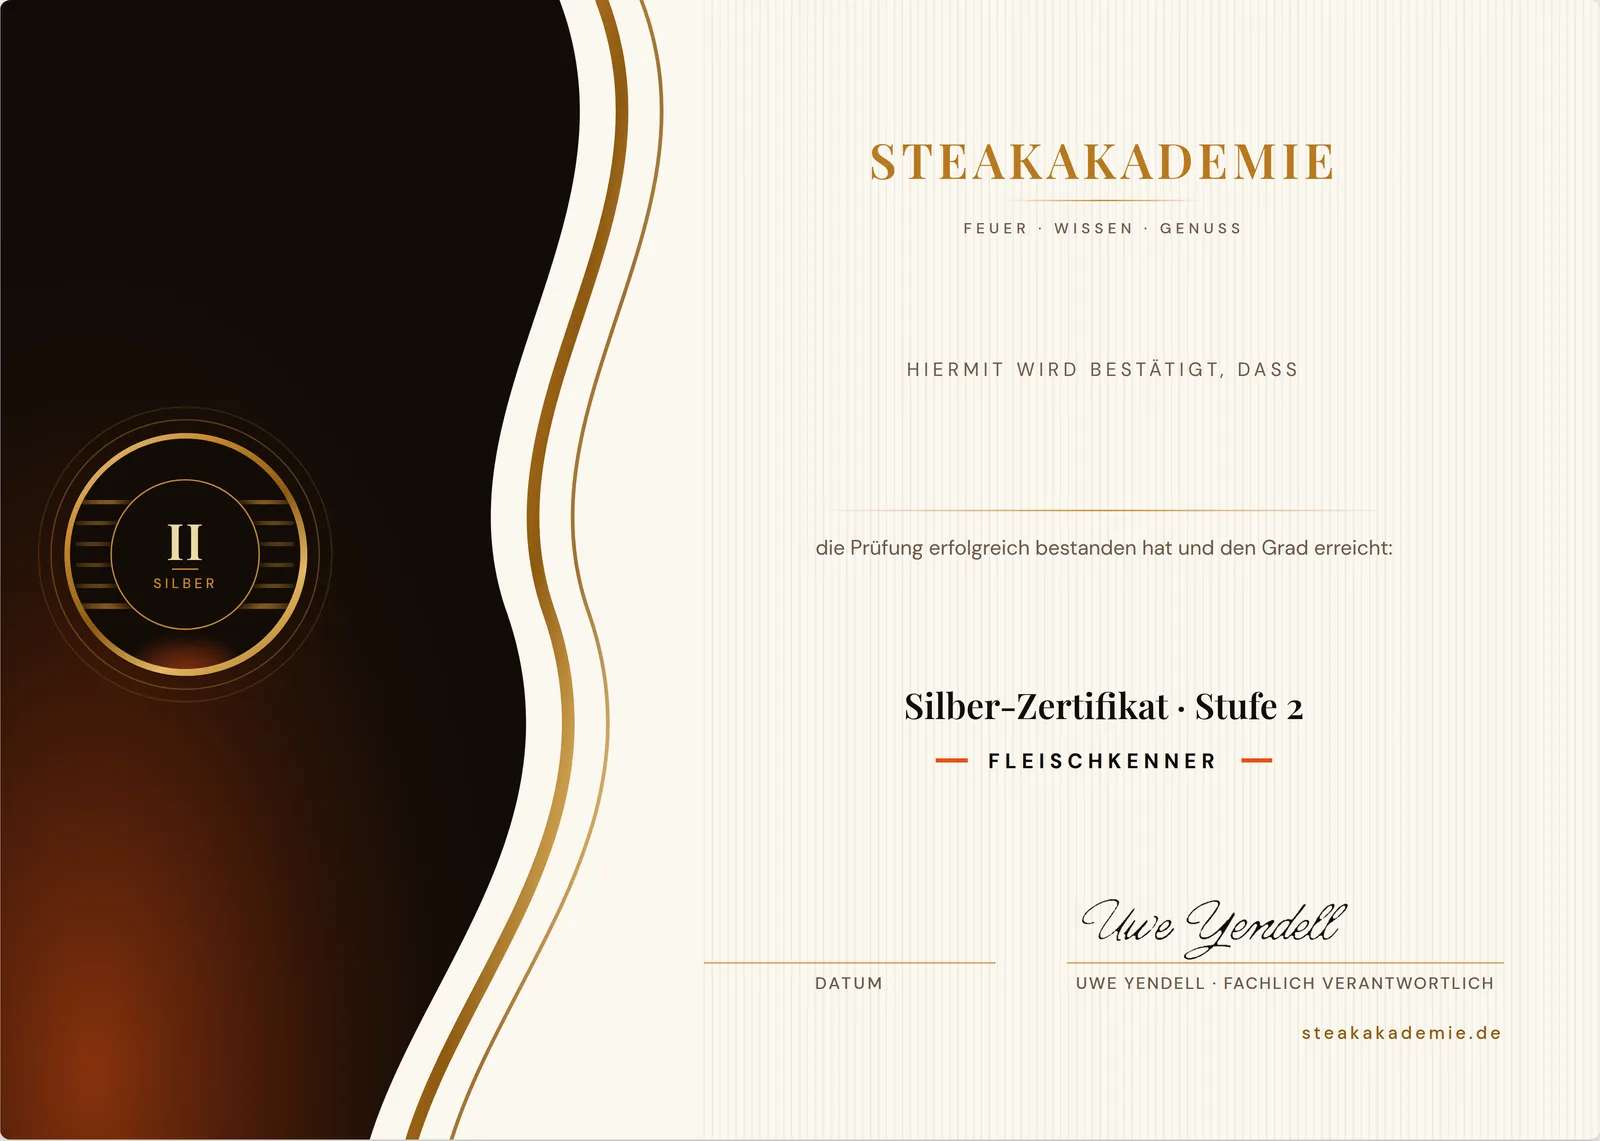
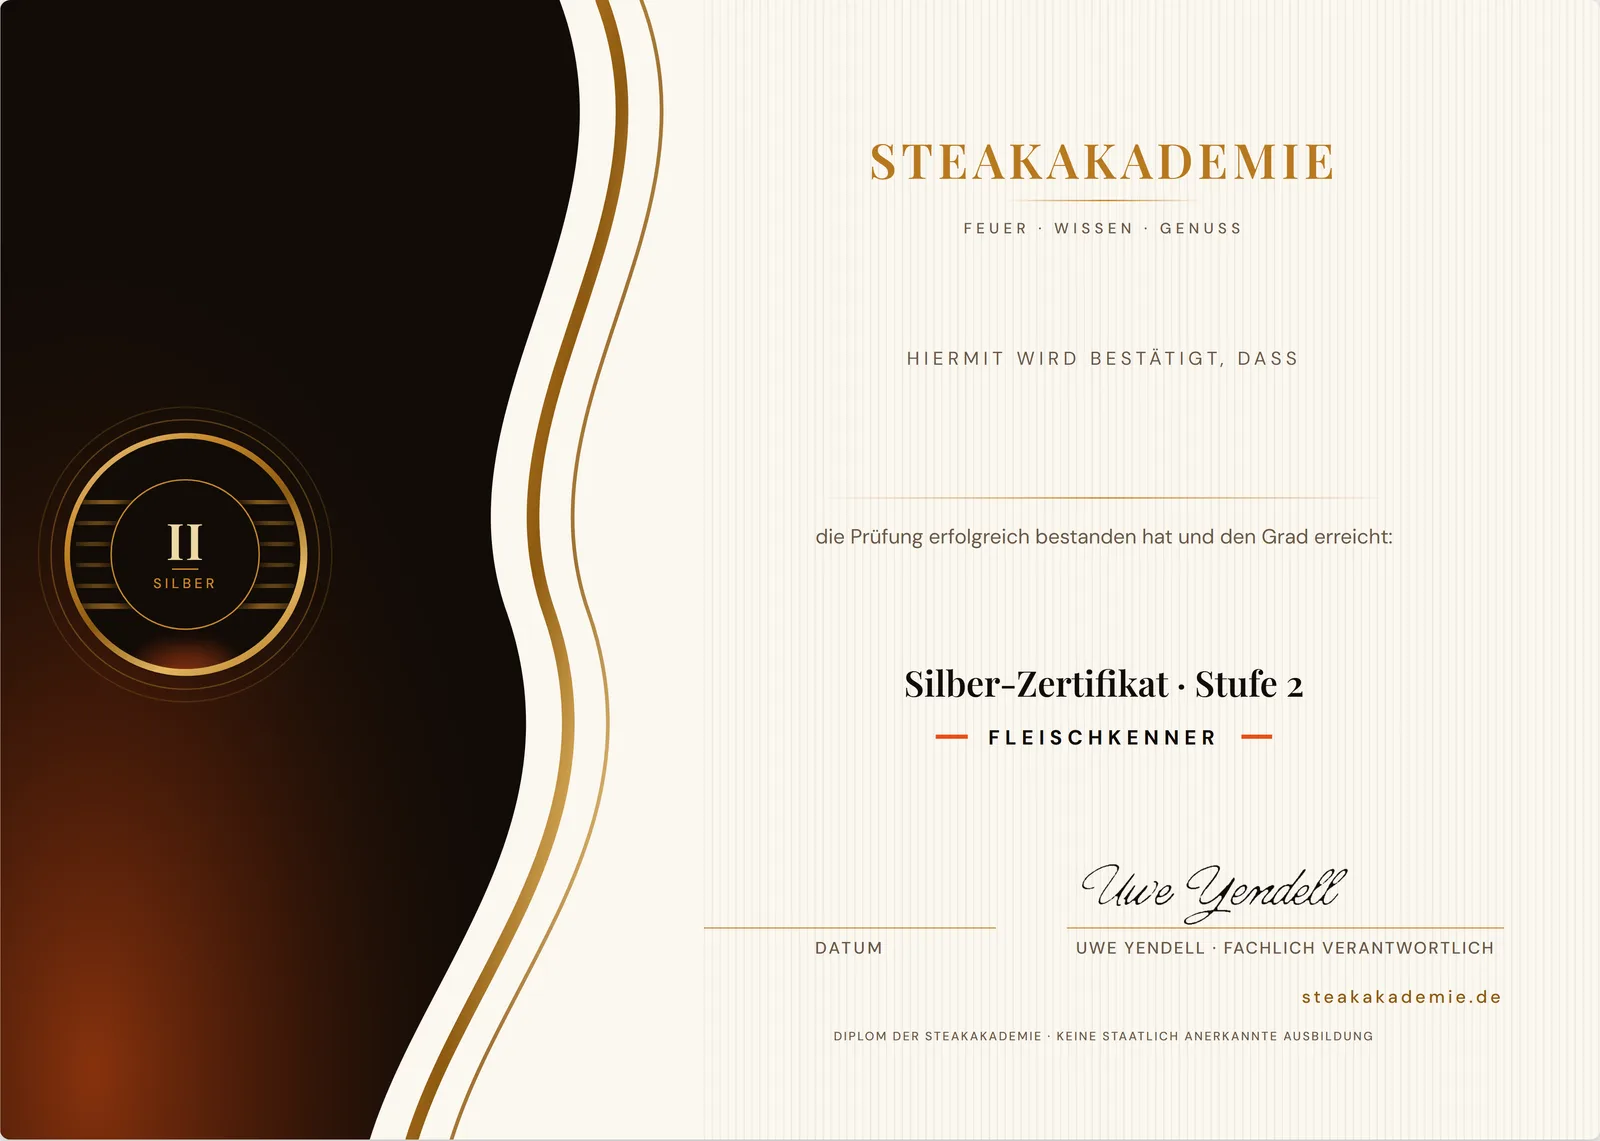
feat(urkunde): Urkunde je Stufe ohne Level-Auswahl, Pflichtzeile auf allen Druckvorlagen, Umsatzsteuer-Satz korrigiert
Drei Entscheidungen von Uwe (17.10.2026, nach der Gelato-Probe):

1. „Urkunde je Stufe ohne Level-Auswahl": Formular und POST /api/urkunde/bestellen
   nehmen `stufe` (1-5) statt `levelId`; level_id bleibt nur fuer Altbestellungen,
   neue Zeilen tragen null. Die Druckvorlage war immer schon je Stufe gesetzt
   (Grad + Stufen-Badge aus STUFEN) - ein Level stand nie auf der Urkunde.
2. „Pflichtzeile muss sein, klein und am unteren Ende": DIPLOM_HINWEIS steht jetzt in
   allen fuenf design/urkunden/*.dc.html (6,5 pt, Versalien, unter der Nummer-Zeile).
   Vorlagen (10 PNG, boxen.json) und Web-Vorschau neu erzeugt; zwei Probe-Renderings
   (1z und 2z) angesehen. Waechter in urkunde-vorschau.test.ts.
3. „Preis enthaelt MwSt.": Druck-Doku von § 19 UStG auf Regelbesteuerung gestellt.

Nebenbei: scripts/urkunden-vorlagen.mjs bedient die Designs ueber einen lokalen
HTTP-Server statt file:// - Chromium (Playwright 1.60) lehnt fetch() auf file:// ab,
die Design-Laufzeit laedt Siegel und Seitenskript aber genau so; der Generator lief
seit dem Chromium-Wechsel in den Screenshot-Timeout.

diff --git a/src/app/diplome/urkunde/page.tsx b/src/app/diplome/urkunde/page.tsx
@@ -8,7 +8,7 @@ import Header from '@/components/layout/Header';
 import Footer from '@/components/layout/Footer';
 import { createClient } from '@/lib/supabase/client';
 import UrkundeVorschau from '@/components/diplome/UrkundeVorschau';
-import { LEVELS, STUFEN, stufeByNr, DIPLOM_HINWEIS } from '@/lib/diplome/stufen';
+import { STUFEN, stufeByNr, DIPLOM_HINWEIS } from '@/lib/diplome/stufen';
 import {
   URKUNDE_CONSENT_TEXT,
   URKUNDE_WIDERRUF_HINWEIS,
@@ -42,7 +42,7 @@ type Konto = { userId: string; email: string; bestandeneStufen: Set<number>; fes
 export default function UrkundePage() {
   const [form, setForm] = useState({
     nameAufUrkunde: '',
-    level: '',
+    stufe: '',
     vorname: '',
     nachname: '',
     strasse: '',
@@ -93,11 +93,12 @@ export default function UrkundePage() {
     return () => { cancelled = true; };
   }, []);
 
-  const waehlbareLevel = konto && konto !== 'laedt'
-    ? LEVELS.filter((l) => konto.bestandeneStufen.has(l.stufe))
+  // Seit 17.10.2026 wird die Stufe bestellt, nicht ein Level (Uwe: „Urkunde je
+  // Stufe ohne Level-Auswahl") — die Druckvorlage ist je Stufe gesetzt.
+  const waehlbareStufen = konto && konto !== 'laedt'
+    ? STUFEN.filter((s) => konto.bestandeneStufen.has(s.nr))
     : [];
-  const selected = LEVELS.find((d) => d.id === Number(form.level));
-  const selectedStufe = selected ? stufeByNr(selected.stufe) : undefined;
+  const selectedStufe = form.stufe ? stufeByNr(Number(form.stufe)) : undefined;
 
   function handleChange(e: React.ChangeEvent<HTMLInputElement | HTMLSelectElement>) {
     setForm((f) => ({ ...f, [e.target.name]: e.target.value }));
@@ -106,7 +107,7 @@ export default function UrkundePage() {
   async function handleSubmit(e: React.FormEvent) {
     e.preventDefault();
     if (!konto || konto === 'laedt') return;
-    if (!selected) { setFehler('Bitte ein Level wählen.'); setState('error'); return; }
+    if (!selectedStufe) { setFehler('Bitte eine Stufe wählen.'); setState('error'); return; }
 
     setState('submitting');
     setFehler('');
@@ -115,7 +116,7 @@ export default function UrkundePage() {
         method: 'POST',
         headers: { 'content-type': 'application/json' },
         body: JSON.stringify({
-          levelId: selected.id,
+          stufe: selectedStufe.nr,
           nameAufUrkunde: konto.festerName ? undefined : form.nameAufUrkunde.trim(),
           vorname: form.vorname.trim(),
           nachname: form.nachname.trim(),
@@ -189,7 +190,7 @@ export default function UrkundePage() {
             />
           </motion.div>
           <p className="mt-4 text-center text-xs font-sans text-text-light/55 leading-relaxed">
-            So geht die Urkunde in den Druck — {selectedStufe ? `${selectedStufe.cert} (Stufe ${selectedStufe.nr})` : 'hier für Stufe 1, das Bild wechselt mit dem gewählten Level'}.
+            So geht die Urkunde in den Druck — {selectedStufe ? `${selectedStufe.cert} (Stufe ${selectedStufe.nr})` : 'hier für Stufe 1, das Bild wechselt mit der gewählten Stufe'}.
             Urkunden-Nummer und Prüfcode entstehen erst bei der Ausstellung; sehr lange Namen setzt der Druck zweizeilig.
           </p>
           {/* Pflichtzeile (Rahmenlehrplan §1): haelt den Grad von der Kammer-Qualifikation
@@ -223,7 +224,7 @@ export default function UrkundePage() {
             </div>
           )}
 
-          {konto && konto !== 'laedt' && waehlbareLevel.length === 0 && state !== 'success' && (
+          {konto && konto !== 'laedt' && waehlbareStufen.length === 0 && state !== 'success' && (
             <div className="text-center border border-brand-gold/20 bg-surface-elevated p-10">
               <h2 className="font-serif text-2xl font-bold text-text-light mb-3">Noch keine bestandene Stufe</h2>
               <p className="font-body text-text-light/60 leading-relaxed mb-6 max-w-md mx-auto">
@@ -251,7 +252,7 @@ export default function UrkundePage() {
             </motion.div>
           )}
 
-          {konto && konto !== 'laedt' && waehlbareLevel.length > 0 && state !== 'success' && bestellbar === false && (
+          {konto && konto !== 'laedt' && waehlbareStufen.length > 0 && state !== 'success' && bestellbar === false && (
             <div className="text-center border border-brand-gold/20 bg-surface-elevated p-10">
               <h2 className="font-serif text-2xl font-bold text-text-light mb-3">Gedruckte Urkunde: gerade nicht bestellbar</h2>
               <p className="font-body text-text-light/60 leading-relaxed max-w-md mx-auto">
@@ -261,7 +262,7 @@ export default function UrkundePage() {
             </div>
           )}
 
-          {konto && konto !== 'laedt' && waehlbareLevel.length > 0 && state !== 'success' && bestellbar === true && (
+          {konto && konto !== 'laedt' && waehlbareStufen.length > 0 && state !== 'success' && bestellbar === true && (
             <motion.form
               initial={{ opacity: 0, y: 16 }}
               animate={{ opacity: 1, y: 0 }}
@@ -299,17 +300,18 @@ export default function UrkundePage() {
               </div>
 
               <div>
-                <label className={labelClass} htmlFor="level">Bestandenes Level</label>
-                <select id="level" name="level" value={form.level} onChange={handleChange} required className={inputClass}>
-                  <option value="">Level wählen…</option>
-                  {waehlbareLevel.map((d) => (
-                    <option key={d.id} value={d.id}>
-                      Level {d.id} — {d.emoji} {d.name} (Stufe {d.stufe}, {STUFEN[d.stufe - 1]?.cert})
+                <label className={labelClass} htmlFor="stufe">Bestandene Stufe</label>
+                <select id="stufe" name="stufe" value={form.stufe} onChange={handleChange} required className={inputClass}>
+                  <option value="">Stufe wählen…</option>
+                  {waehlbareStufen.map((s) => (
+                    <option key={s.nr} value={s.nr}>
+                      Stufe {s.nr} — {s.emoji} {s.cert} ({s.badge})
                     </option>
                   ))}
                 </select>
                 <p className="mt-1.5 text-[11px] font-sans text-text-light/55">
-                  Angezeigt werden nur Level aus Stufen, die in deinem Konto als bestanden stehen.
+                  Angezeigt werden nur Stufen, die in deinem Konto als bestanden stehen. Die Urkunde gilt
+                  für die ganze Stufe mit beiden Leveln.
                 </p>
               </div>
 

diff --git a/src/app/api/urkunde/bestellen/route.ts b/src/app/api/urkunde/bestellen/route.ts
@@ -3,7 +3,7 @@ export const dynamic = 'force-dynamic';
 
 import { z } from 'zod';
 import { guardRequest, jsonError, isAdminRequest, userIdFromRequest } from '@/lib/api/guard';
-import { stufeOfLevel, LEVELS } from '@/lib/diplome/stufen';
+import { stufeByNr } from '@/lib/diplome/stufen';
 import { dienstClient } from '@/lib/urkunde/produktion';
 import { meldeBestellung, bestaetigeBestellung } from '@/lib/urkunde/benachrichtigung';
 import { urkundeBestellbar, urkundeFehlendeKonfiguration } from '@/lib/urkunde/bestellbar';
@@ -21,13 +21,16 @@ import { URKUNDE_CONSENT_TEXT, URKUNDE_LAND_CODES, URKUNDE_WIDERRUF_HINWEIS, URK
  *
  * Bestellbar ist nur eine Stufe, die im Konto als bestanden steht — geprueft
  * wird serverseitig gegen course_progress, nicht gegen das, was der Browser
- * mitschickt. Adressfelder sind auf die Laengen der Gelato-Order-API
+ * mitschickt. Seit 17.10.2026 wird die STUFE bestellt, nicht ein Level (Uwe:
+ * „Urkunde je Stufe ohne Level-Auswahl"): Die Druckvorlage ist je Stufe gesetzt
+ * (Grad + Stufen-Badge), ein Level stand nie auf der Urkunde. `level_id` bleibt
+ * fuer Altbestellungen in der Tabelle, neue Zeilen tragen null. Adressfelder sind auf die Laengen der Gelato-Order-API
  * begrenzt; laenger anzunehmen hiesse, die Bestellung erst beim Druckdienst
  * scheitern zu lassen.
  */
 
 const Body = z.object({
-  levelId: z.number().int().min(1).max(10),
+  stufe: z.number().int().min(1).max(5),
   // Seit 17.10.2026 nur noch Vorschlag für den ERSTEN Namen eines Kontos — steht
   // schon einer fest (urkunden_namen), wird er genommen, egal was hier steht.
   nameAufUrkunde: z.string().trim().min(2).max(60).optional(),
@@ -68,9 +71,8 @@ export async function POST(req: Request) {
   if (!guard.ok) return guard.response;
 
   const b = guard.body;
-  const level = LEVELS.find((l) => l.id === b.levelId);
-  const stufe = stufeOfLevel(b.levelId);
-  if (!level || !stufe) return jsonError(400, 'Unbekanntes Level.');
+  const stufe = stufeByNr(b.stufe);
+  if (!stufe) return jsonError(400, 'Unbekannte Stufe.');
 
   const userId = await userIdFromRequest(req);
   const admin = await isAdminRequest(req);
@@ -115,7 +117,7 @@ export async function POST(req: Request) {
       user_id: userId,
       email,
       stufe: stufe.nr,
-      level_id: level.id,
+      level_id: null,
       name_auf_urkunde: nameAufUrkunde,
       vorname: b.vorname,
       nachname: b.nachname,
@@ -143,7 +145,7 @@ export async function POST(req: Request) {
       `Neue Bestellung einer gedruckten Urkunde (${urkundePreisText()})`,
       '',
       `Name auf der Urkunde: ${nameAufUrkunde}`,
-      `Level ${level.id} — ${level.name} (Stufe ${stufe.nr}, ${stufe.cert})`,
+      `Stufe ${stufe.nr} — ${stufe.cert} (${stufe.badge})`,
       '',
       'Versandadresse:',
       `${b.vorname} ${b.nachname}`,
@@ -158,7 +160,7 @@ export async function POST(req: Request) {
   );
 
   await bestaetigeBestellung(email, {
-    stufeName: `Level ${level.id} — ${level.name} (Stufe ${stufe.nr}, ${stufe.cert})`,
+    stufeName: `Stufe ${stufe.nr} — ${stufe.cert} (${stufe.badge})`,
     nameAufUrkunde,
     preis: `${urkundePreisText()} (Versand inklusive, inkl. gesetzlicher MwSt.)`,
     bestellId: zeile.id,

diff --git a/src/__tests__/urkunde-vorschau.test.ts b/src/__tests__/urkunde-vorschau.test.ts
@@ -1,7 +1,8 @@
 import { describe, expect, it } from 'vitest';
-import { statSync } from 'node:fs';
+import { readFileSync, statSync } from 'node:fs';
 import path from 'node:path';
 import { vorschauBild, vorschauLayout, VORSCHAU_STUFEN } from '@/lib/urkunde/vorschau-layout';
+import { DIPLOM_HINWEIS, STUFEN } from '@/lib/diplome/stufen';
 
 /**
  * Waechter fuer die Web-Vorschau der gedruckten Urkunde (17.10.2026).
@@ -27,10 +28,11 @@ describe('Urkunden-Vorschau', () => {
 
   it('setzt den Namen in die rechte Textspalte, zentriert, in Playfair-Groesse', () => {
     const { name } = vorschauLayout(1);
-    // Kasten 503,9–1076,5 px von 1145,2 px Breite (boxen.json, Stufe 1, 1z)
+    // Kasten 503,9–1076,5 px von 1145,2 px Breite (boxen.json, Stufe 1, 1z);
+    // Grundlinie 334,2 px von 816,4 px Hoehe — seit der Pflichtzeile (17.10.2026), vorher 342,6 px.
     expect(name.left).toBeCloseTo(0.44, 2);
     expect(name.width).toBeCloseTo(0.5, 2);
-    expect(name.baseline).toBeCloseTo(0.42, 2);
+    expect(name.baseline).toBeCloseTo(0.41, 2);
     expect(name.fontSize).toBeCloseTo(0.0512, 3);
     expect(name.align).toBe('center');
   });
@@ -38,6 +40,17 @@ describe('Urkunden-Vorschau', () => {
   it('kennt keine Stufe ausserhalb der Vorlagen', () => {
     expect(() => vorschauLayout(0)).toThrow(/Stufe 0/);
     expect(() => vorschauLayout(6)).toThrow(/Stufe 6/);
+  });
+
+  it('jede Druckvorlage traegt die Pflichtzeile aus Rahmenlehrplan §1 und das Stufen-Badge', () => {
+    // Uwe, 17.10.2026: „muss sein, klein und am unteren Ende" — die Zeile ist dieselbe wie
+    // auf der Webseite (DIPLOM_HINWEIS). Bis dahin fehlte sie auf allen fuenf Vorlagen.
+    const namen = ['1 Bronze', '2 Silber', '3 Gold', '4 Platin', '5 Meister'];
+    namen.forEach((n, i) => {
+      const html = readFileSync(path.join(process.cwd(), 'design', 'urkunden', `Urkunde ${n}.dc.html`), 'utf8');
+      expect(html, `Urkunde ${n}`).toContain(DIPLOM_HINWEIS);
+      expect(html, `Urkunde ${n}`).toContain(`>${STUFEN[i].badge}<`);
+    });
   });
 
   it('hat fuer jede Stufe ein Vorschaubild unter public/, klein genug fuer das Web', () => {

diff --git a/design/urkunden/Urkunde 1 Bronze.dc.html b/design/urkunden/Urkunde 1 Bronze.dc.html
@@ -92,6 +92,9 @@ a{color:#C8882A;text-decoration:none}a:hover{color:#E85018}
           <div style="font:400 8.5pt 'DM Sans',system-ui,sans-serif;color:#6B5847;letter-spacing:0.12em">{{ nr }}</div>
           <div style="font:500 9.5pt 'DM Sans',system-ui,sans-serif;color:#8E5A11;letter-spacing:0.18em">steakakademie.de</div>
         </div>
+        <!-- Pflichtzeile, Rahmenlehrplan §1 (Uwe, 17.10.2026: „muss sein, klein und am unteren Ende") —
+             identisch mit DIPLOM_HINWEIS in src/lib/diplome/stufen.ts; Waechter: src/__tests__/urkunde-vorschau.test.ts -->
+        <div style="font:500 6.5pt 'DM Sans',system-ui,sans-serif;color:#6B5847;letter-spacing:0.14em;text-transform:uppercase;text-align:center;margin-top:-1.5mm;white-space:nowrap">Diplom der Steakakademie · keine staatlich anerkannte Ausbildung</div>
       </div>
     </div>
   </section>

diff --git a/design/urkunden/Urkunde 2 Silber.dc.html b/design/urkunden/Urkunde 2 Silber.dc.html
@@ -89,6 +89,9 @@ a{color:#C8882A;text-decoration:none}a:hover{color:#E85018}
           <div style="font:400 8.5pt 'DM Sans',system-ui,sans-serif;color:#6B5847;letter-spacing:0.12em">{{ nr }}</div>
           <div style="font:500 9.5pt 'DM Sans',system-ui,sans-serif;color:#8E5A11;letter-spacing:0.18em">steakakademie.de</div>
         </div>
+        <!-- Pflichtzeile, Rahmenlehrplan §1 (Uwe, 17.10.2026: „muss sein, klein und am unteren Ende") —
+             identisch mit DIPLOM_HINWEIS in src/lib/diplome/stufen.ts; Waechter: src/__tests__/urkunde-vorschau.test.ts -->
+        <div style="font:500 6.5pt 'DM Sans',system-ui,sans-serif;color:#6B5847;letter-spacing:0.14em;text-transform:uppercase;text-align:center;margin-top:-1.5mm;white-space:nowrap">Diplom der Steakakademie · keine staatlich anerkannte Ausbildung</div>
       </div>
     </div>
   </section>

diff --git a/design/urkunden/Urkunde 3 Gold.dc.html b/design/urkunden/Urkunde 3 Gold.dc.html
@@ -89,6 +89,9 @@ a{color:#C8882A;text-decoration:none}a:hover{color:#E85018}
           <div style="font:400 8.5pt 'DM Sans',system-ui,sans-serif;color:#6B5847;letter-spacing:0.12em">{{ nr }}</div>
           <div style="font:500 9.5pt 'DM Sans',system-ui,sans-serif;color:#8E5A11;letter-spacing:0.18em">steakakademie.de</div>
         </div>
+        <!-- Pflichtzeile, Rahmenlehrplan §1 (Uwe, 17.10.2026: „muss sein, klein und am unteren Ende") —
+             identisch mit DIPLOM_HINWEIS in src/lib/diplome/stufen.ts; Waechter: src/__tests__/urkunde-vorschau.test.ts -->
+        <div style="font:500 6.5pt 'DM Sans',system-ui,sans-serif;color:#6B5847;letter-spacing:0.14em;text-transform:uppercase;text-align:center;margin-top:-1.5mm;white-space:nowrap">Diplom der Steakakademie · keine staatlich anerkannte Ausbildung</div>
       </div>
     </div>
   </section>

diff --git a/design/urkunden/Urkunde 4 Platin.dc.html b/design/urkunden/Urkunde 4 Platin.dc.html
@@ -89,6 +89,9 @@ a{color:#C8882A;text-decoration:none}a:hover{color:#E85018}
           <div style="font:400 8.5pt 'DM Sans',system-ui,sans-serif;color:#6B5847;letter-spacing:0.12em">{{ nr }}</div>
           <div style="font:500 9.5pt 'DM Sans',system-ui,sans-serif;color:#8E5A11;letter-spacing:0.18em">steakakademie.de</div>
         </div>
+        <!-- Pflichtzeile, Rahmenlehrplan §1 (Uwe, 17.10.2026: „muss sein, klein und am unteren Ende") —
+             identisch mit DIPLOM_HINWEIS in src/lib/diplome/stufen.ts; Waechter: src/__tests__/urkunde-vorschau.test.ts -->
+        <div style="font:500 6.5pt 'DM Sans',system-ui,sans-serif;color:#6B5847;letter-spacing:0.14em;text-transform:uppercase;text-align:center;margin-top:-1.5mm;white-space:nowrap">Diplom der Steakakademie · keine staatlich anerkannte Ausbildung</div>
       </div>
     </div>
   </section>

diff --git a/design/urkunden/Urkunde 5 Meister.dc.html b/design/urkunden/Urkunde 5 Meister.dc.html
@@ -89,6 +89,9 @@ a{color:#C8882A;text-decoration:none}a:hover{color:#E85018}
           <div style="font:400 8.5pt 'DM Sans',system-ui,sans-serif;color:#6B5847;letter-spacing:0.12em">{{ nr }}</div>
           <div style="font:500 9.5pt 'DM Sans',system-ui,sans-serif;color:#8E5A11;letter-spacing:0.18em">steakakademie.de</div>
         </div>
+        <!-- Pflichtzeile, Rahmenlehrplan §1 (Uwe, 17.10.2026: „muss sein, klein und am unteren Ende") —
+             identisch mit DIPLOM_HINWEIS in src/lib/diplome/stufen.ts; Waechter: src/__tests__/urkunde-vorschau.test.ts -->
+        <div style="font:500 6.5pt 'DM Sans',system-ui,sans-serif;color:#6B5847;letter-spacing:0.14em;text-transform:uppercase;text-align:center;margin-top:-1.5mm;white-space:nowrap">Diplom der Steakakademie · keine staatlich anerkannte Ausbildung</div>
       </div>
     </div>
   </section>

diff --git a/src/__tests__/urkunde-name-fest.test.ts b/src/__tests__/urkunde-name-fest.test.ts
@@ -53,7 +53,7 @@ import { POST } from '@/app/api/urkunde/bestellen/route';
 
 const adresse = { vorname: 'Max', nachname: 'Muster', strasse: 'Weg 1', plz: '42279', ort: 'Wuppertal', land: 'DE', consent: true };
 const bestellen = (extra: Record<string, any>) => {
-  db.body = { levelId: 3, ...adresse, ...extra };
+  db.body = { stufe: 2, ...adresse, ...extra };
   return POST(new Request('https://steakakademie.de/api/urkunde/bestellen', { method: 'POST' }));
 };
 

diff --git a/docs/urkunden-druck-automatisierung.md b/docs/urkunden-druck-automatisierung.md
@@ -5,7 +5,8 @@ Freitext-Mail an `pitmaster@` war und von Hand gedruckt und kuvertiert wurde.
 
 ## Der Weg einer Bestellung
 
-1. **Besteller** wählt unter `/diplome/urkunde` ein bestandenes Level, trägt
+1. **Besteller** wählt unter `/diplome/urkunde` eine bestandene Stufe (seit 17.10.2026;
+   vorher ein Level, das nie auf der Urkunde stand), trägt
    Name und Versandadresse ein → `POST /api/urkunde/bestellen`.
 2. Die Route prüft serverseitig gegen `course_progress`, ob die Stufe wirklich
    bestanden ist, und legt eine Zeile in `urkunden_bestellungen` an
@@ -98,8 +99,9 @@ Bewusst nicht DHL Warenpost (6,49 €): unversichert und nicht nachverfolgbar.
 Auf der Urkunde steht eine fortlaufende Nummer — bei Verlust gäbe es weder
 Nachweis noch Ersatz.
 
-Keine Umsatzsteuer (§ 19 UStG, Kleinunternehmerregelung). Der Preis steht an
-einer Stelle: `src/lib/urkunde/preis.ts`.
+Der Preis enthält die gesetzliche Umsatzsteuer (Regelbesteuerung — Uwe, 17.10.2026:
+„Preis enthält MwSt."; bis dahin stand hier § 19 UStG, die Bestellseite sagte seit #343
+schon „inkl. MwSt."). Der Preis steht an einer Stelle: `src/lib/urkunde/preis.ts`.
 
 ## Erste Probe (17.10.2026)
 
@@ -125,13 +127,20 @@ hat niemand nachgesehen.
 
 Zwei Dinge, die bei der Probe aufgefallen sind, ohne hier behoben zu sein:
 
-1. **Die Vorlage je Stufe trägt fest den Ehrentitel des ersten Levels** („GLUT-LEHRLING"
-   bei Stufe 1). Wer Level 2 derselben Stufe bestellt, bekommt eine Urkunde mit dem
-   Titel von Level 1. Entscheidung Uwe: Urkunde je Stufe (Level-Auswahl aus dem Formular
-   nehmen) oder Vorlage ohne Ehrentitel.
-2. **Die Pflichtzeile aus Rahmenlehrplan §1** („Diplom der Steakakademie · keine staatlich
-   anerkannte Ausbildung", `DIPLOM_HINWEIS`) steht auf keiner der fünf Druckvorlagen, nur
-   auf der Webseite. Vor dem ersten echten Druck klären (Kanzlei).
+1. **Das Formular ließ ein Level wählen, die Urkunde ist aber je Stufe gesetzt.** Die
+   Unterzeile der Vorlage ist das Stufen-Badge aus `STUFEN` („Glut-Lehrling", „Fleischkenner" …),
+   kein Level-Titel — der erste Befund („Ehrentitel des ersten Levels") war insofern ein
+   Lesefehler; für Stufe 1 fallen Badge und Level-1-Name nur zusammen. **Entschieden (Uwe,
+   17.10.2026): „Urkunde je Stufe ohne Level-Auswahl."** Formular und `POST /api/urkunde/bestellen`
+   nehmen seitdem `stufe` (1–5), `level_id` bleibt nur für Altbestellungen in der Tabelle.
+2. **Die Pflichtzeile aus Rahmenlehrplan §1** (`DIPLOM_HINWEIS`) fehlte auf allen fünf
+   Druckvorlagen. **Entschieden (Uwe, 17.10.2026): „muss sein, klein und am unteren Ende."**
+   Seitdem steht sie in `design/urkunden/*.dc.html` unter der Nummer-Zeile (6,5 pt, Versalien),
+   Vorlagen und Web-Vorschau neu erzeugt; Wächter in `src/__tests__/urkunde-vorschau.test.ts`.
+3. **Noch offen:** Die Vorlage nennt den Grad „Bronze-Zertifikat · Stufe 1", `STUFEN[].cert`
+   heißt seit 08.09.2026 „Grillmeister Bronze" und soll laut Rahmenlehrplan §1 mit Träger
+   stehen („Grillmeister Bronze · Steakakademie", `gradMitTraeger`). Bestellseite und Mails
+   sagen „Grillmeister Bronze", der Druck sagt „Bronze-Zertifikat". Entscheidung Uwe.
 
 Aufräumen nach der Probe: Bestellung `ffe6f8aa` unter `/admin/urkunden` stornieren, den
 Gelato-Entwurf im Gelato-Dashboard löschen (Entwürfe kosten nichts, liegen aber dort),
@@ -177,6 +186,10 @@ text (`URKUNDE_CONSENT_TEXT`), und der Wortlaut wird je Bestellung mitgespeicher
 
 1. `design/urkunden/*.dc.html` anpassen.
 2. `node scripts/urkunden-vorlagen.mjs` — erzeugt Vorlagen und `boxen.json` neu.
+   Seit 17.10.2026 bedient das Skript die Designs über einen lokalen HTTP-Server statt
+   `file://`: Chromium (Playwright 1.60) lehnt `fetch()` auf `file://` ab, die Design-Laufzeit
+   lädt Siegel und Seitenskript aber genau so — die Seite blieb unsichtbar, der Screenshot
+   lief in den Timeout.
    Danach `node scripts/urkunden-vorschau.mjs`, sonst zeigt die Bestellseite das alte Bild.
 3. Das Skript meldet, wenn eines der drei Felder nicht mehr gefunden wird oder
    der Name unerwartet umbricht. Solche Meldungen nicht übergehen: Die Vorlage
